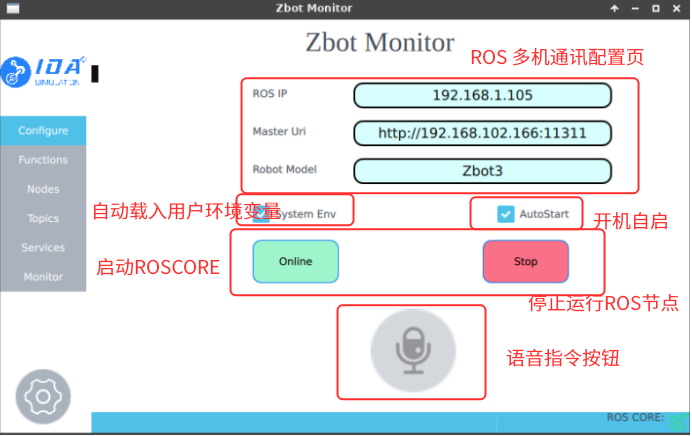
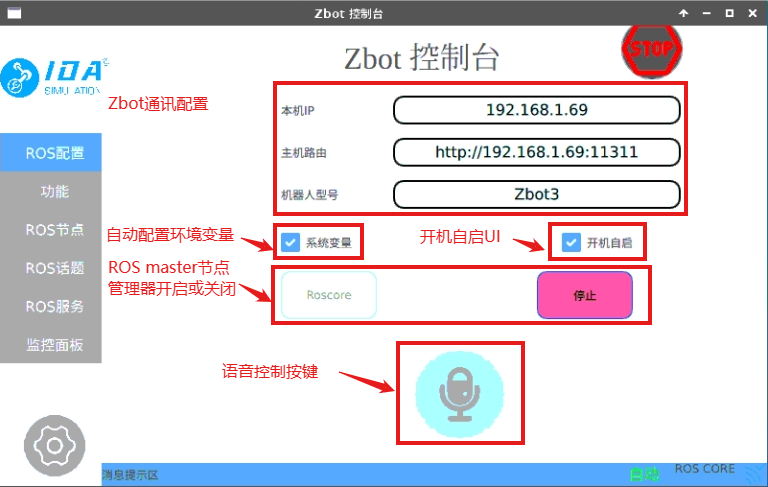
9/24/9/00

diff --git a/Zbot实验指导书.md b/Zbot实验指导书.md
@@ -1276,26 +1276,29 @@ roslaunch zbot_follow zbot3_object_follow.launch
 ## 13. <a name='ZbotMonitor'></a>Zbot Monitor 使用说明
 
 Zbot Monitor 是基于Qt写的Zbot 机器人用户界面交互程序。可方便用户快速打开基本功能。对Zbot机器人进行配置与状态监测。其主界面如下图所示：
+
 ![主页面](./pics/130.png)
 
-主页面可分为如下几个区域：左侧为菜单导航区域，点击对应菜单按钮，切换到不同菜单页。
-底部左下角为软件设置按钮，点击可打开/关闭软件设置界面。
-右侧主区域为对应导航菜单按钮的主页。底部为状态栏，显示一些状态消息和ROS 节点管理器状态。
+主页面可分为四个区域：    
+左侧为菜单导航栏，点击对应菜单按钮，可以切换到不同的功能页。    
+底部左下角为软件设置按钮，点击可打开/关闭软件设置界面。    
+右侧主区域为菜单按钮对应功能的主页。    
+底部为状态栏，显示一些状态信息、操纵模式和ROS master节点管理器状态（其中操纵模式分为手动和自动两个状态，自动状态为绿色字体，表示小车当前由ROS节点控制，手动状态为红色字体，表示当前小车由手机APP端控制，且优于ROS节点对小车的控制；ROSmaster节点管理器通常被称为roscore，当它处于未启动状态时，状态栏的通讯波标志上有一个小叉，图中roscore处于启动状态）。    
 接下来分别介绍各菜单页：
 
 1. Configure zbot Monitor主界面，界面如下图所示
 ![配置页](./pics/131.png)
 
-上面三个文本框方便用户配置ROS多机通信功能。分别对应ROS 多机通信中的**ROS_IP** , **ROS_MASTER_URI**,**ROS_MASTER_NAME**三个环境变量。
+Zbot通讯配置可以方便用户获取Zbot当前网络下的IP地址以及配置ROS多机通信功能。三栏分别对应ROS 多机通信中的**ROS_IP** , **ROS_MASTER_URI**,**ROS_MASTER_NAME**三个环境变量。
 中间两个选择框：
 
-* sysEnv (System Environment) 勾选则每次启动ROS指令时自动加载用户环境变量。
-* AutoStart 勾选以后软件开机自启。
+* **系统变量** 勾选则每次启动ROS指令时自动加载用户环境变量。
+* **开机自启** 勾选以后软件开机自启。
 
-底部麦克风按钮为语音指令功能，用户可通过点击按钮对着麦克风说话完成基础语音指令。
+底部麦克风按钮为语音控制功能，用户可通过点击按钮对着麦克风说出预设的语音指令进行一些基础的机器人行进控制。
 
-online 按钮 启动ROS节点管理器(roscore)
-stop 按钮： 停止所有当前在运行ros节点
+**Roscore** 按钮 启动ROS节点管理器(roscore)    
+**停止** 按钮： 停止所有当前在运行ros节点
 
 2. Functions 功能页
 
@@ -1307,9 +1310,10 @@ stop 按钮： 停止所有当前在运行ros节点
     * 图片查看： 快速打开rqt图片查看工具
     * 转换树： 快速打开rqt_tf_tree,方便查看坐标转换关系
     * 节点图： 快速打开rqt_graph节点查看工具，查看节点关系
-    * rviz ： 快速打开新的rviz空白配置窗口。
+    * PID ： 快速打开底盘驱动PID配置窗口。
 
-    Zbot功能下拉框可以方便用户快速启动Zbot 功能启动文件，免去繁琐的终端命令输入。勾选Remote 远程按钮，可以将指令运行在远程Master端，适合多机通信。点击Run 启动按钮，运行选择的功能。
+    Zbot功能下拉框可以方便用户快速启动Zbot 功能启动文件，免去繁琐的终端命令输入。勾选Remote 远程按钮，可以将指令运行在远程Master端，适合多机通信。点击**运行** 按钮，运行所选功能的launch文件。点击**停止**按钮，停止ROS当前所有运行节点。
+
 
     底部为ROS日志显示区域，集合显示ROS各节点日志信息。可以通过右上角下来框过滤日志级别。两个功能按钮分别可以清除当前日志显示区域和保存日志到文件。
 
